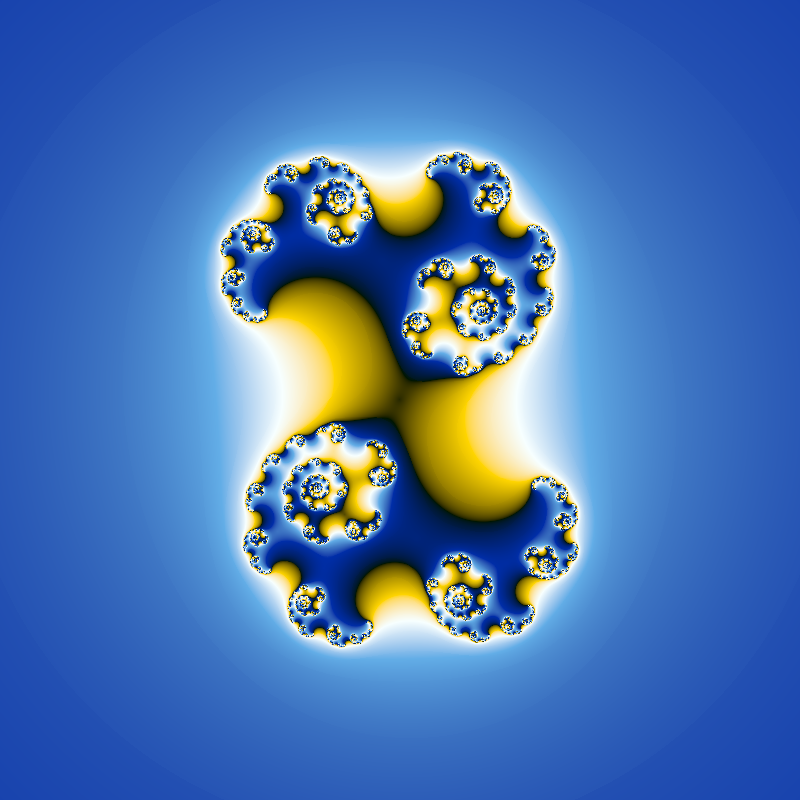
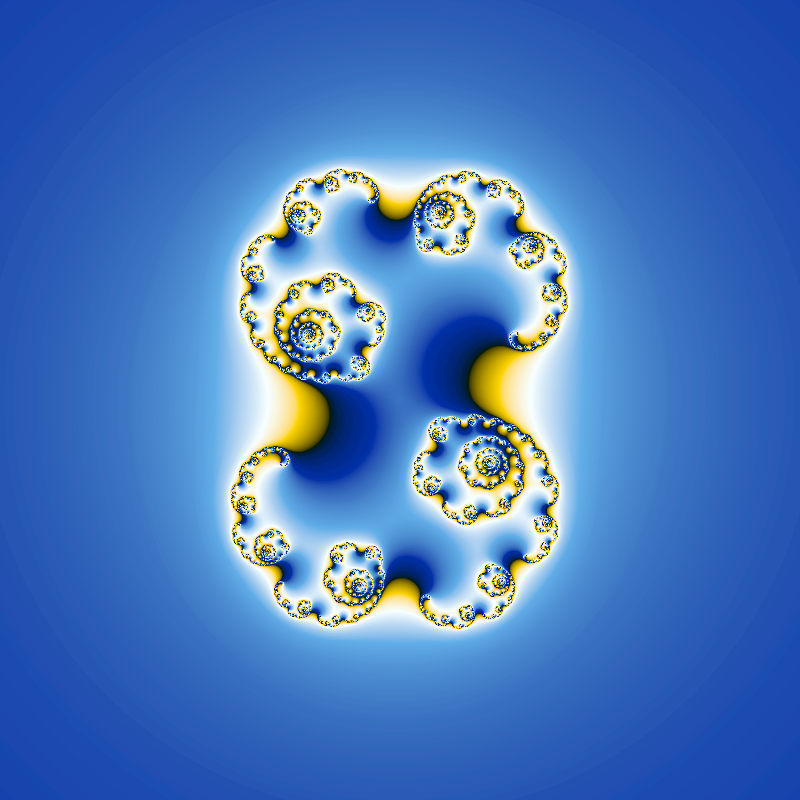
controls and examples

Changed region(s): [[0.25, 0.1562, 0.75, 0.8438]]

diff --git a/readme.md b/readme.md
@@ -1,5 +1,18 @@
 # Julia
 
-Simple quadratic polynomial [Julia set](https://en.wikipedia.org/wiki/Julia_set) render.
+WGPU compute shader implementation for quadratic polynomial [Julia set](https://en.wikipedia.org/wiki/Julia_set) rendering.
 
-![julia set](pictures/julia.png)
+![julia set 1](pictures/uf-julia.png)
+![julia set 2](pictures/circles.png)
+
+## Floating point precision
+
+Shader currently computes the iteration process using statically sized 32-bit floating numbers, which creates certain limitations for higher order polynomials and zoom range.  
+
+![precision error](pictures/precision_error.png)
+
+## Controls
+
+* Arrows keys to modify the constant
+* Scroll wheel to zoom
+* Left click to center on cursor
